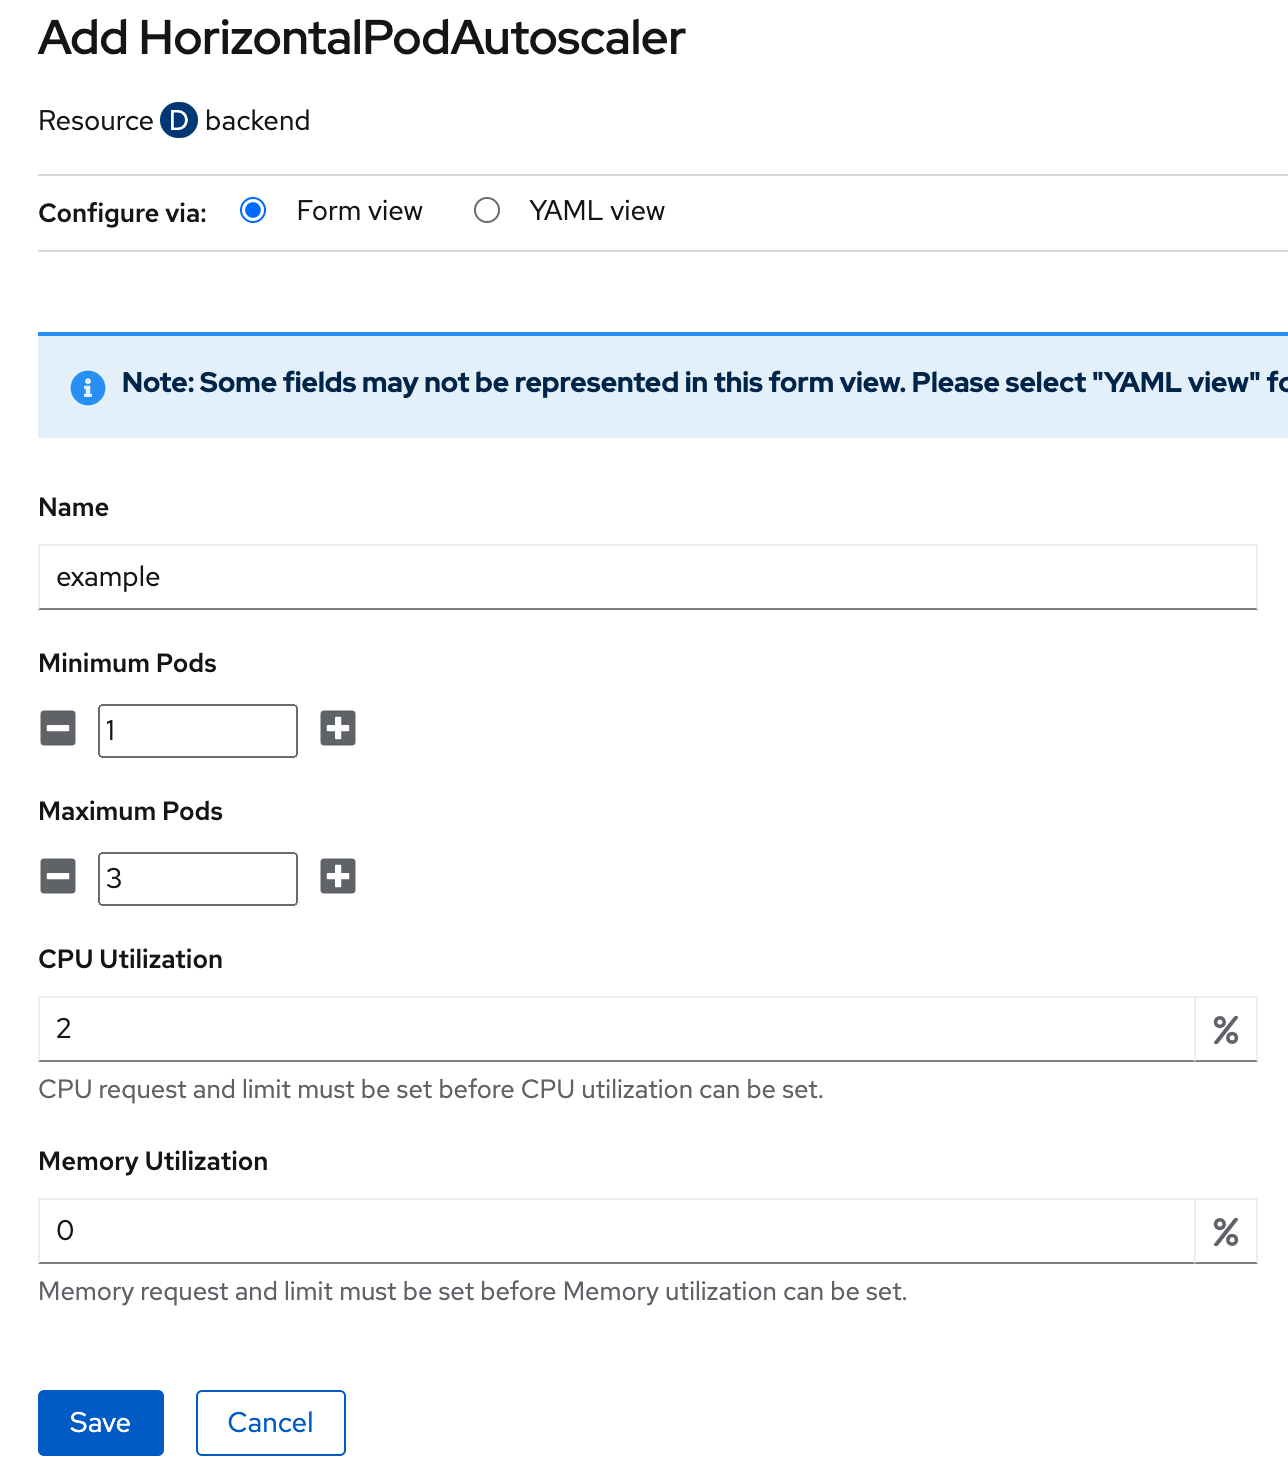
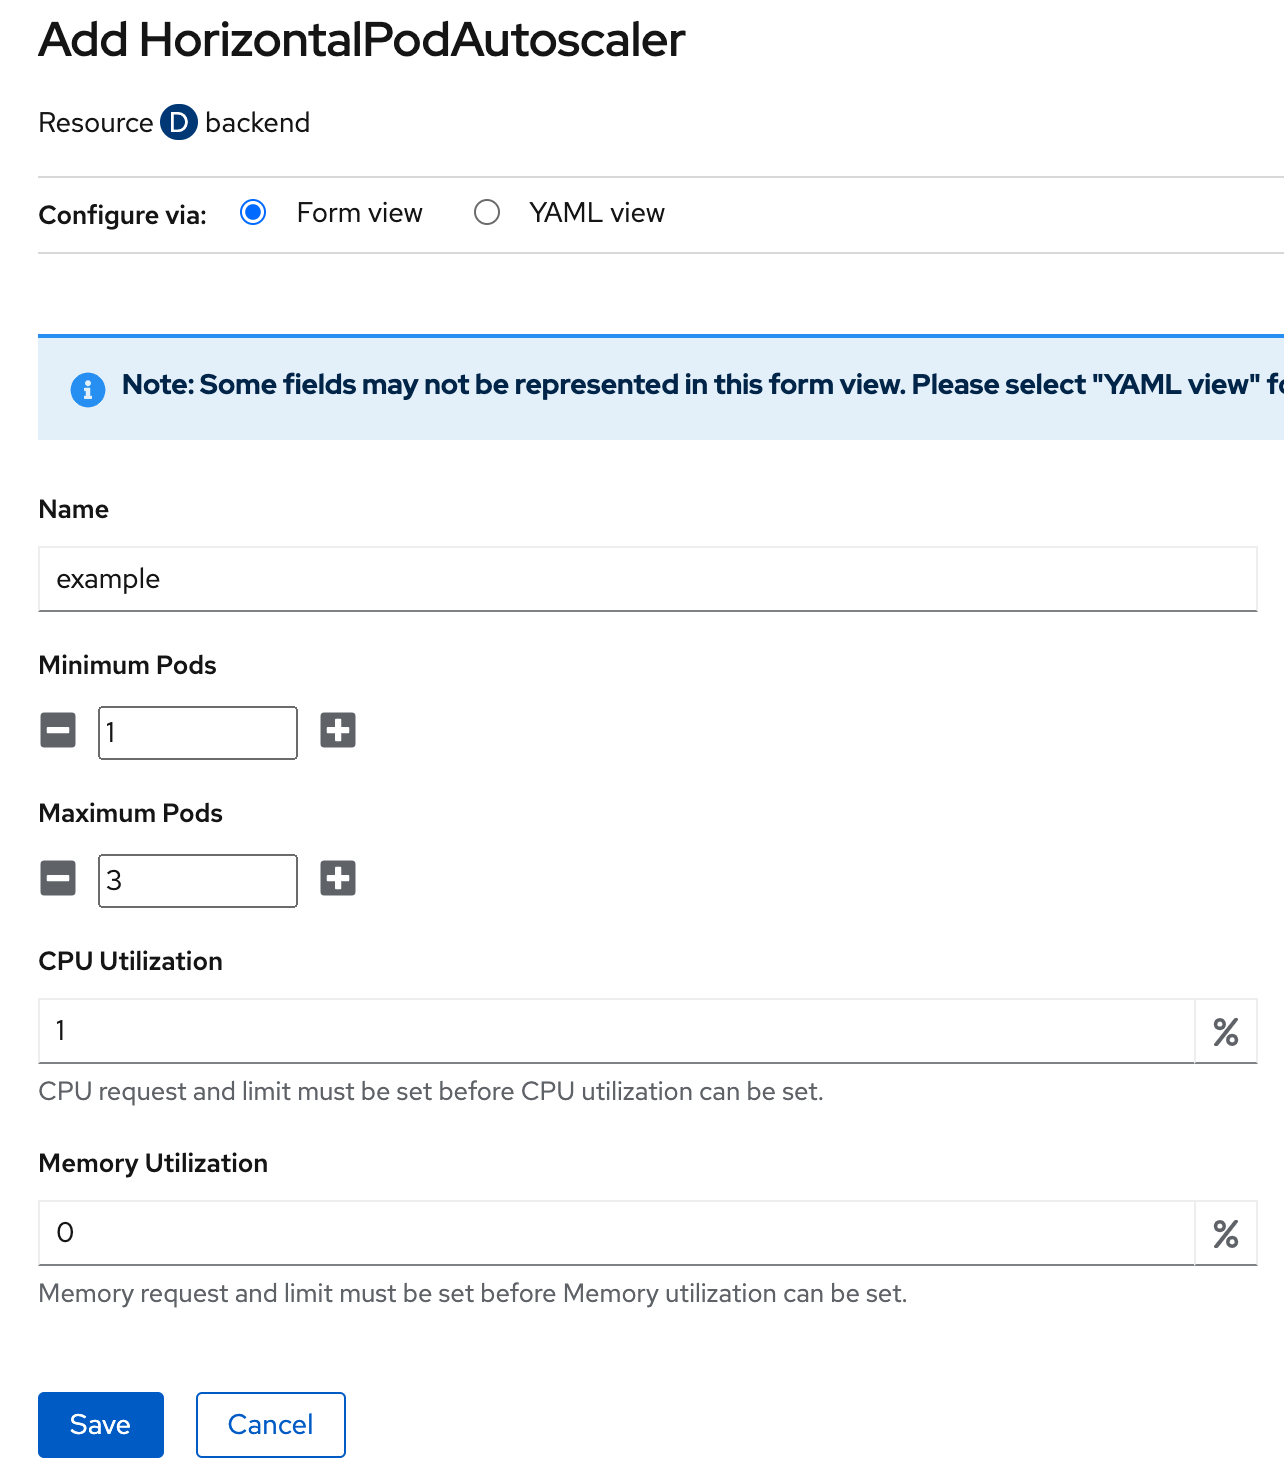
update

diff --git a/scale.md b/scale.md
@@ -61,7 +61,7 @@
   - set Name: example
   - Minimum Pods: 1
   - Maximum Pods: 3
-  - CPU Utilization: 2%
+  - CPU Utilization: 1%
   ![](images/scale_13.png) 
 - click save, and wait until backend deployment change to Autoscaling
   ![](images/scale_14.png) 
